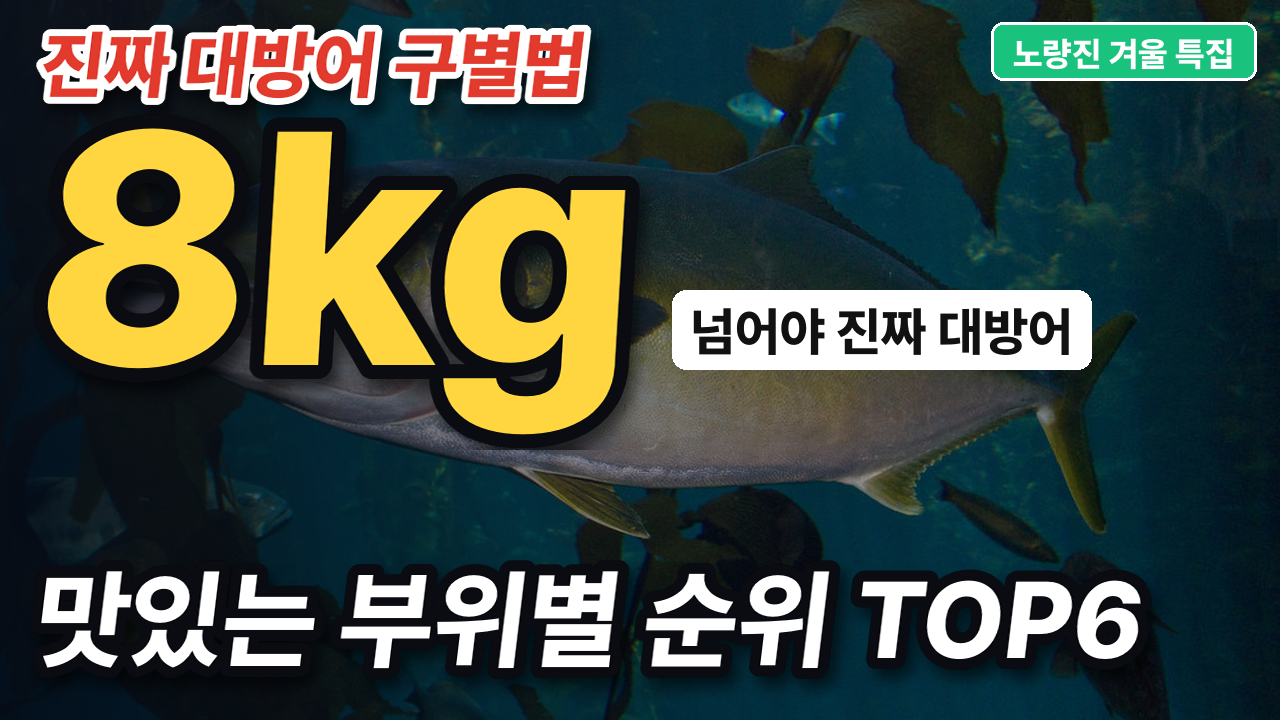
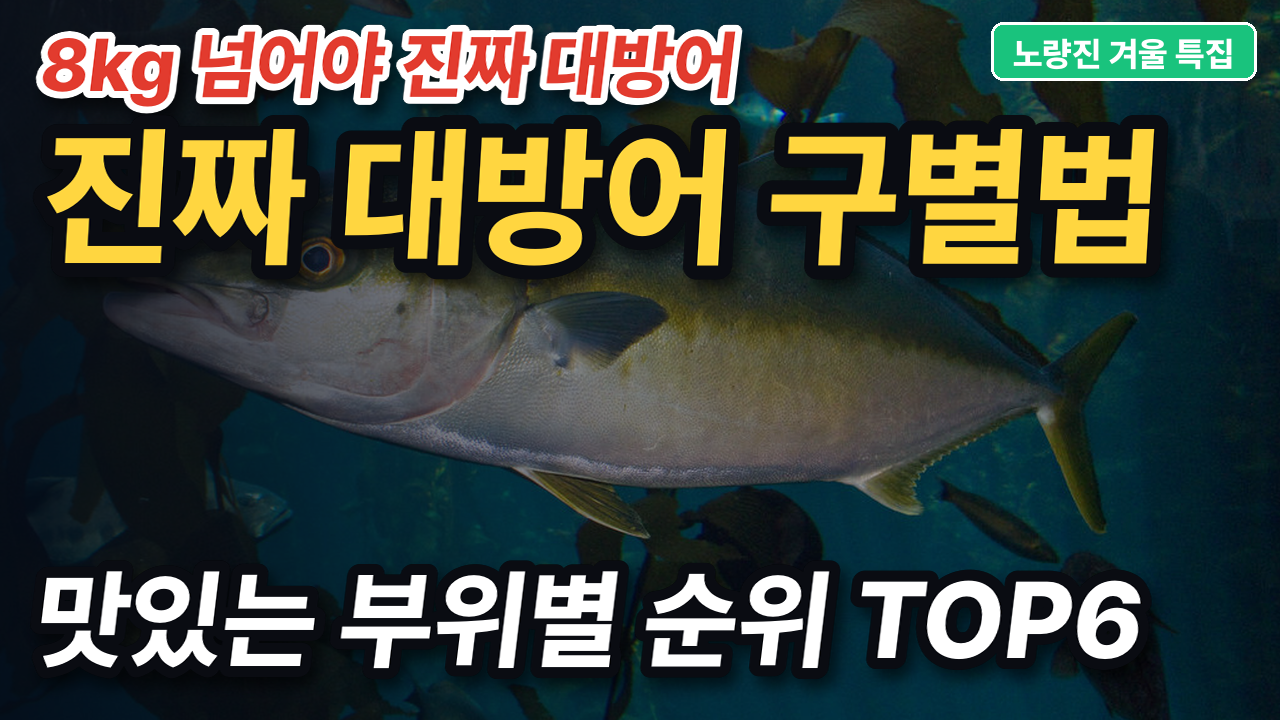
대방어 썸네일: 진짜 대방어 구별법을 가운데 크게 + 설명란·제목 후보 갱신
Claude-Session: https://claude.ai/code/session_01NcWaxmMVV38DikctvomFGM

Changed region(s): [[0.0312, 0.0306, 0.9375, 0.6417]]

diff --git a/.claude/skills/ranking-video/scripts/make_graphics.py b/.claude/skills/ranking-video/scripts/make_graphics.py
@@ -320,13 +320,15 @@ def thumbnail_number(photo, T, accent):
     im = Image.alpha_composite(im, sh)
     top = _skew_text((W2, 180), T["top"], _fit(T["top"], 74, 900, stroke=7), red, 7, (255, 255, 255))
     im.alpha_composite(top, (26, 18))
-    num = _skew_text((W2, 420), T["number"], _fit(T["number"], 330, 760, stroke=14, minsize=150), yellow, 14, (10, 12, 18), sh=0.06)
+    num = _skew_text((W2 + 200, 420), T["number"], _fit(T["number"], T.get("number_size", 330), T.get("number_maxw", 760), stroke=14, minsize=110), yellow, 14, (10, 12, 18), sh=0.06)
     im.alpha_composite(num, (24, 108))
-    d = ImageDraw.Draw(im); nf = F(52, "ExtraBold"); nb = d.textbbox((0, 0), T["number_sub"], font=nf)
-    x0, y0 = 60 + num.width - 10, 108 + num.height - 150
-    if x0 + nb[2] + 40 > W2: x0, y0 = 60, 108 + num.height - 12
-    d.rounded_rectangle((x0 - 18, y0 - 10, x0 + nb[2] - nb[0] + 18, y0 + nb[3] - nb[1] + 22), radius=14, fill=(255, 255, 255))
-    d.text((x0, y0), T["number_sub"], font=nf, fill=(17, 17, 17))
+    d = ImageDraw.Draw(im)
+    if T.get("number_sub"):  # 숫자 옆 흰 칩(없으면 생략)
+        nf = F(52, "ExtraBold"); nb = d.textbbox((0, 0), T["number_sub"], font=nf)
+        x0, y0 = 60 + num.width - 10, 108 + num.height - 150
+        if x0 + nb[2] + 40 > W2: x0, y0 = 60, 108 + num.height - 12
+        d.rounded_rectangle((x0 - 18, y0 - 10, x0 + nb[2] - nb[0] + 18, y0 + nb[3] - nb[1] + 22), radius=14, fill=(255, 255, 255))
+        d.text((x0, y0), T["number_sub"], font=nf, fill=(17, 17, 17))
     main = _skew_text((W2 + 100, 240), T["main"], _fit(T["main"], 150, 1180, stroke=11), (255, 255, 255), 11, (10, 12, 18))
     im.alpha_composite(main, (20, H2 - main.height - 14))
     bf = F(34, "ExtraBold"); l, t_, r, b = d.textbbox((0, 0), T["badge"], font=bf); bw = r - l + 44
